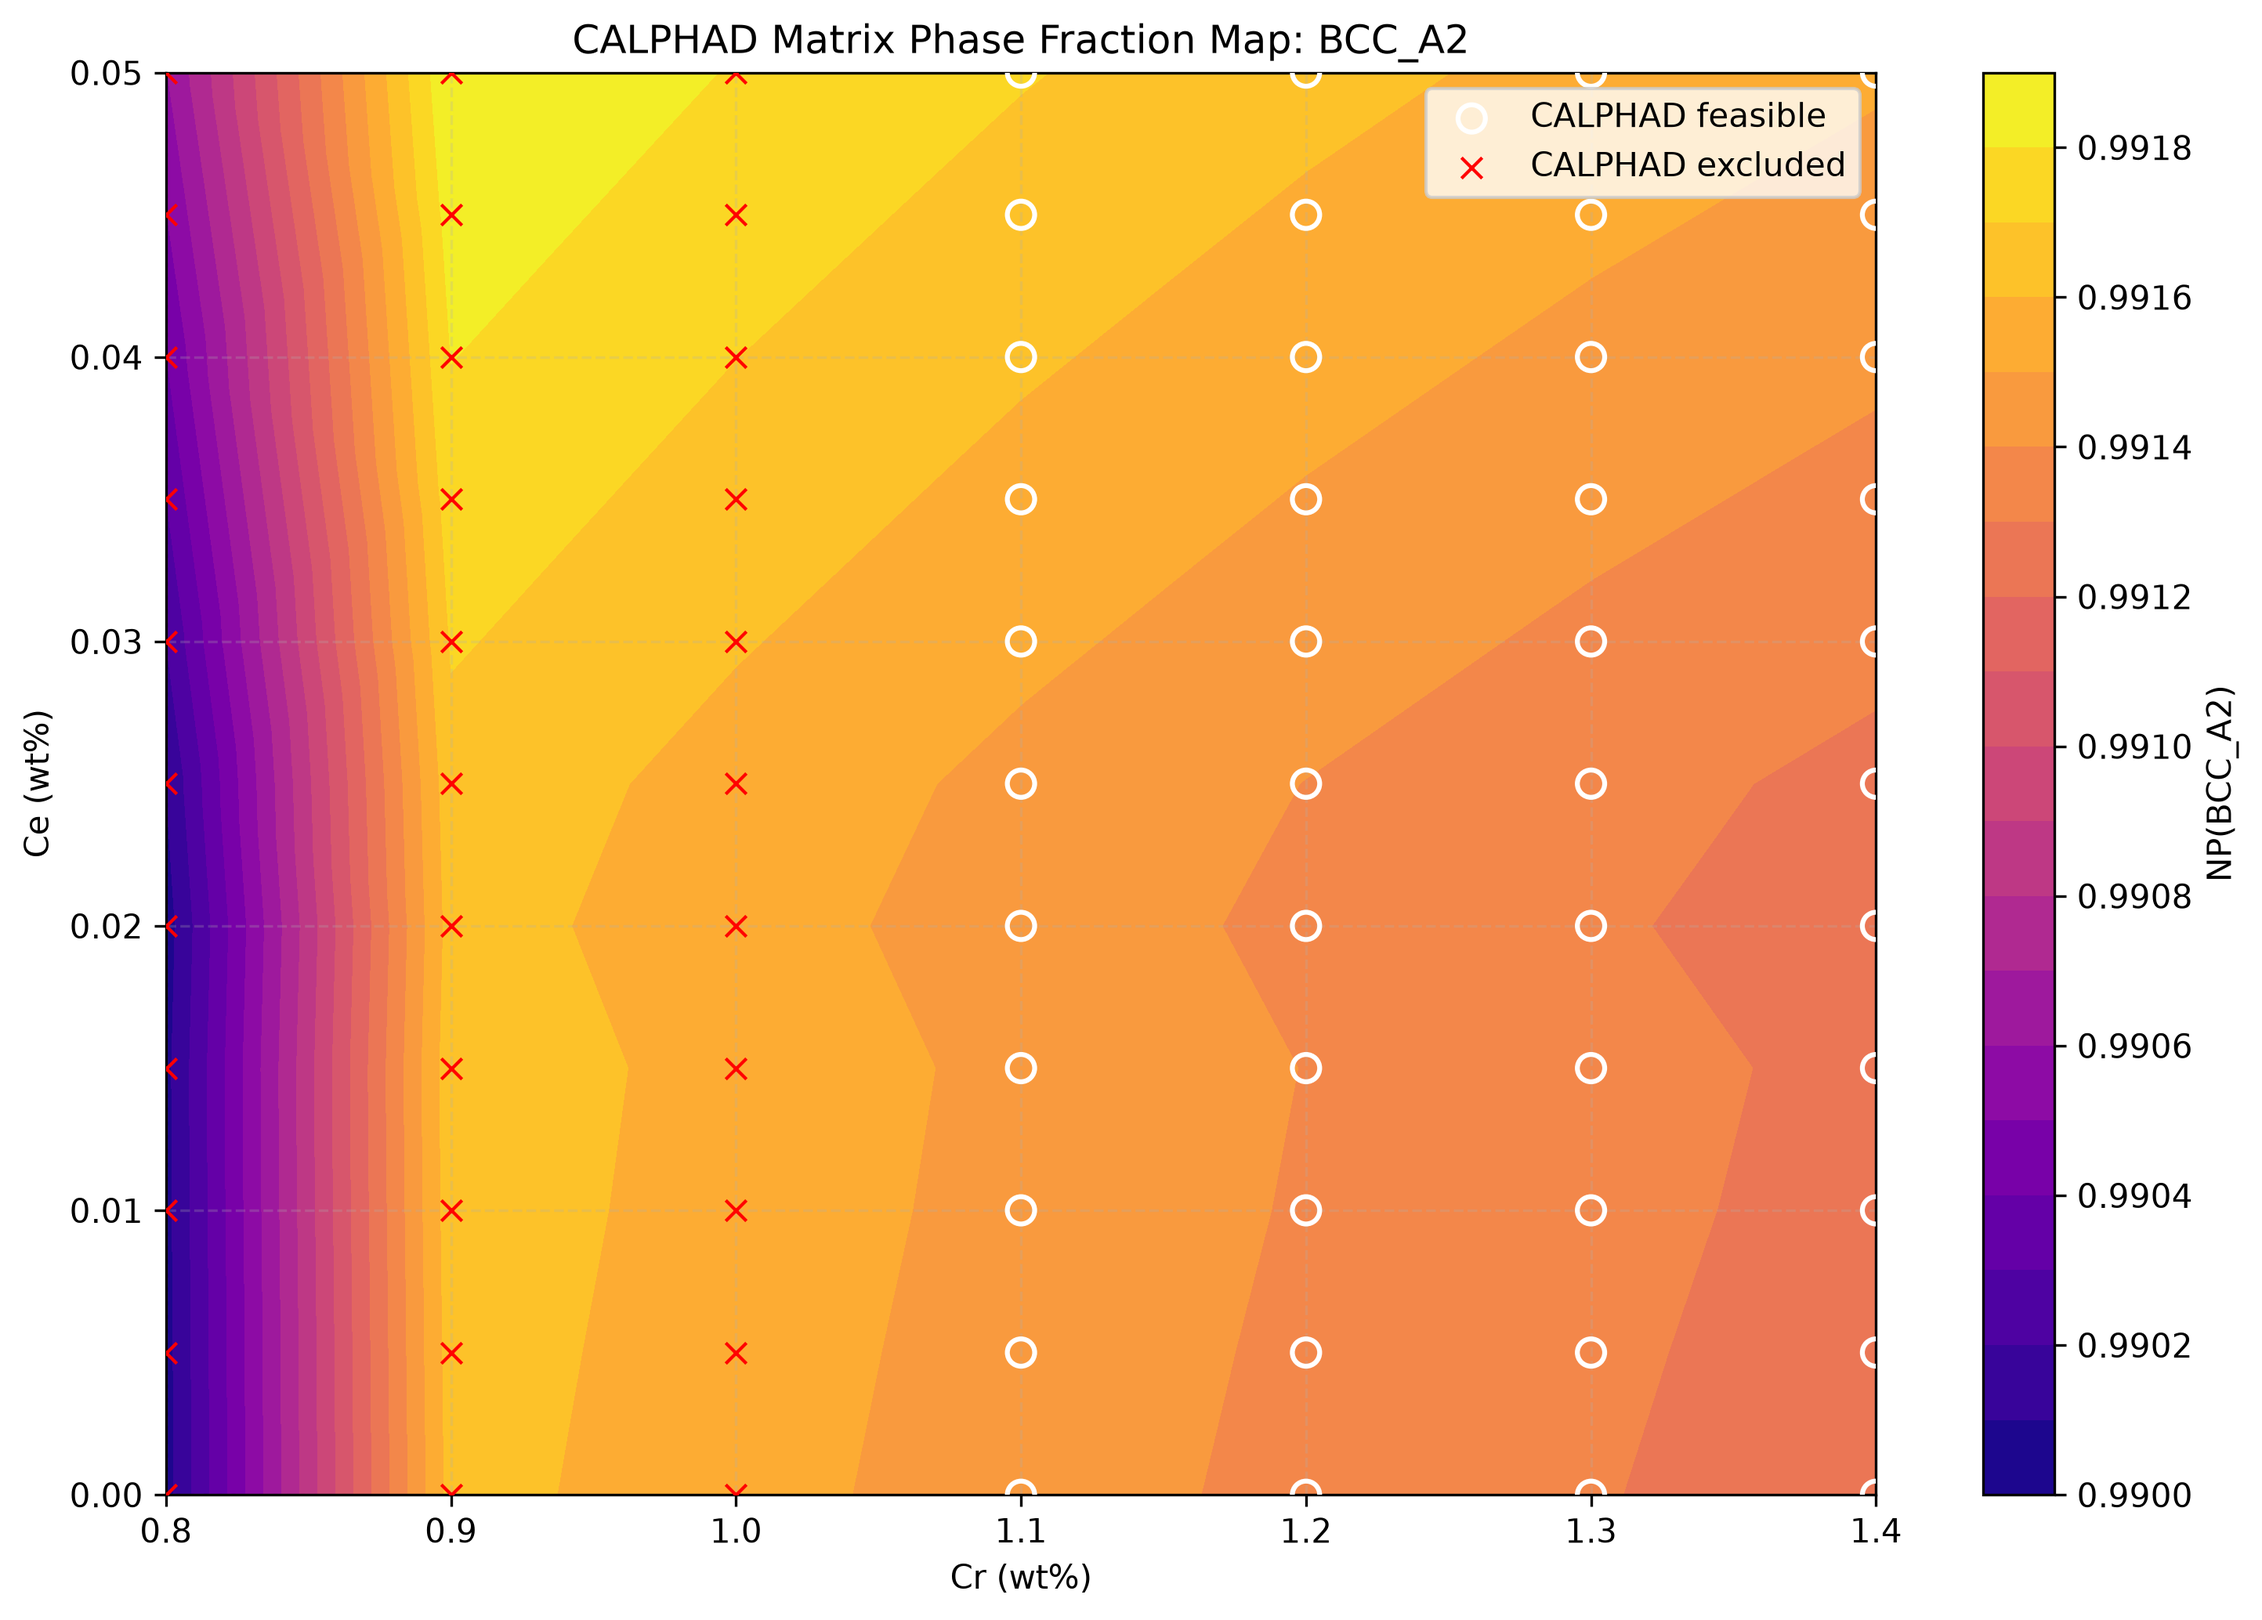
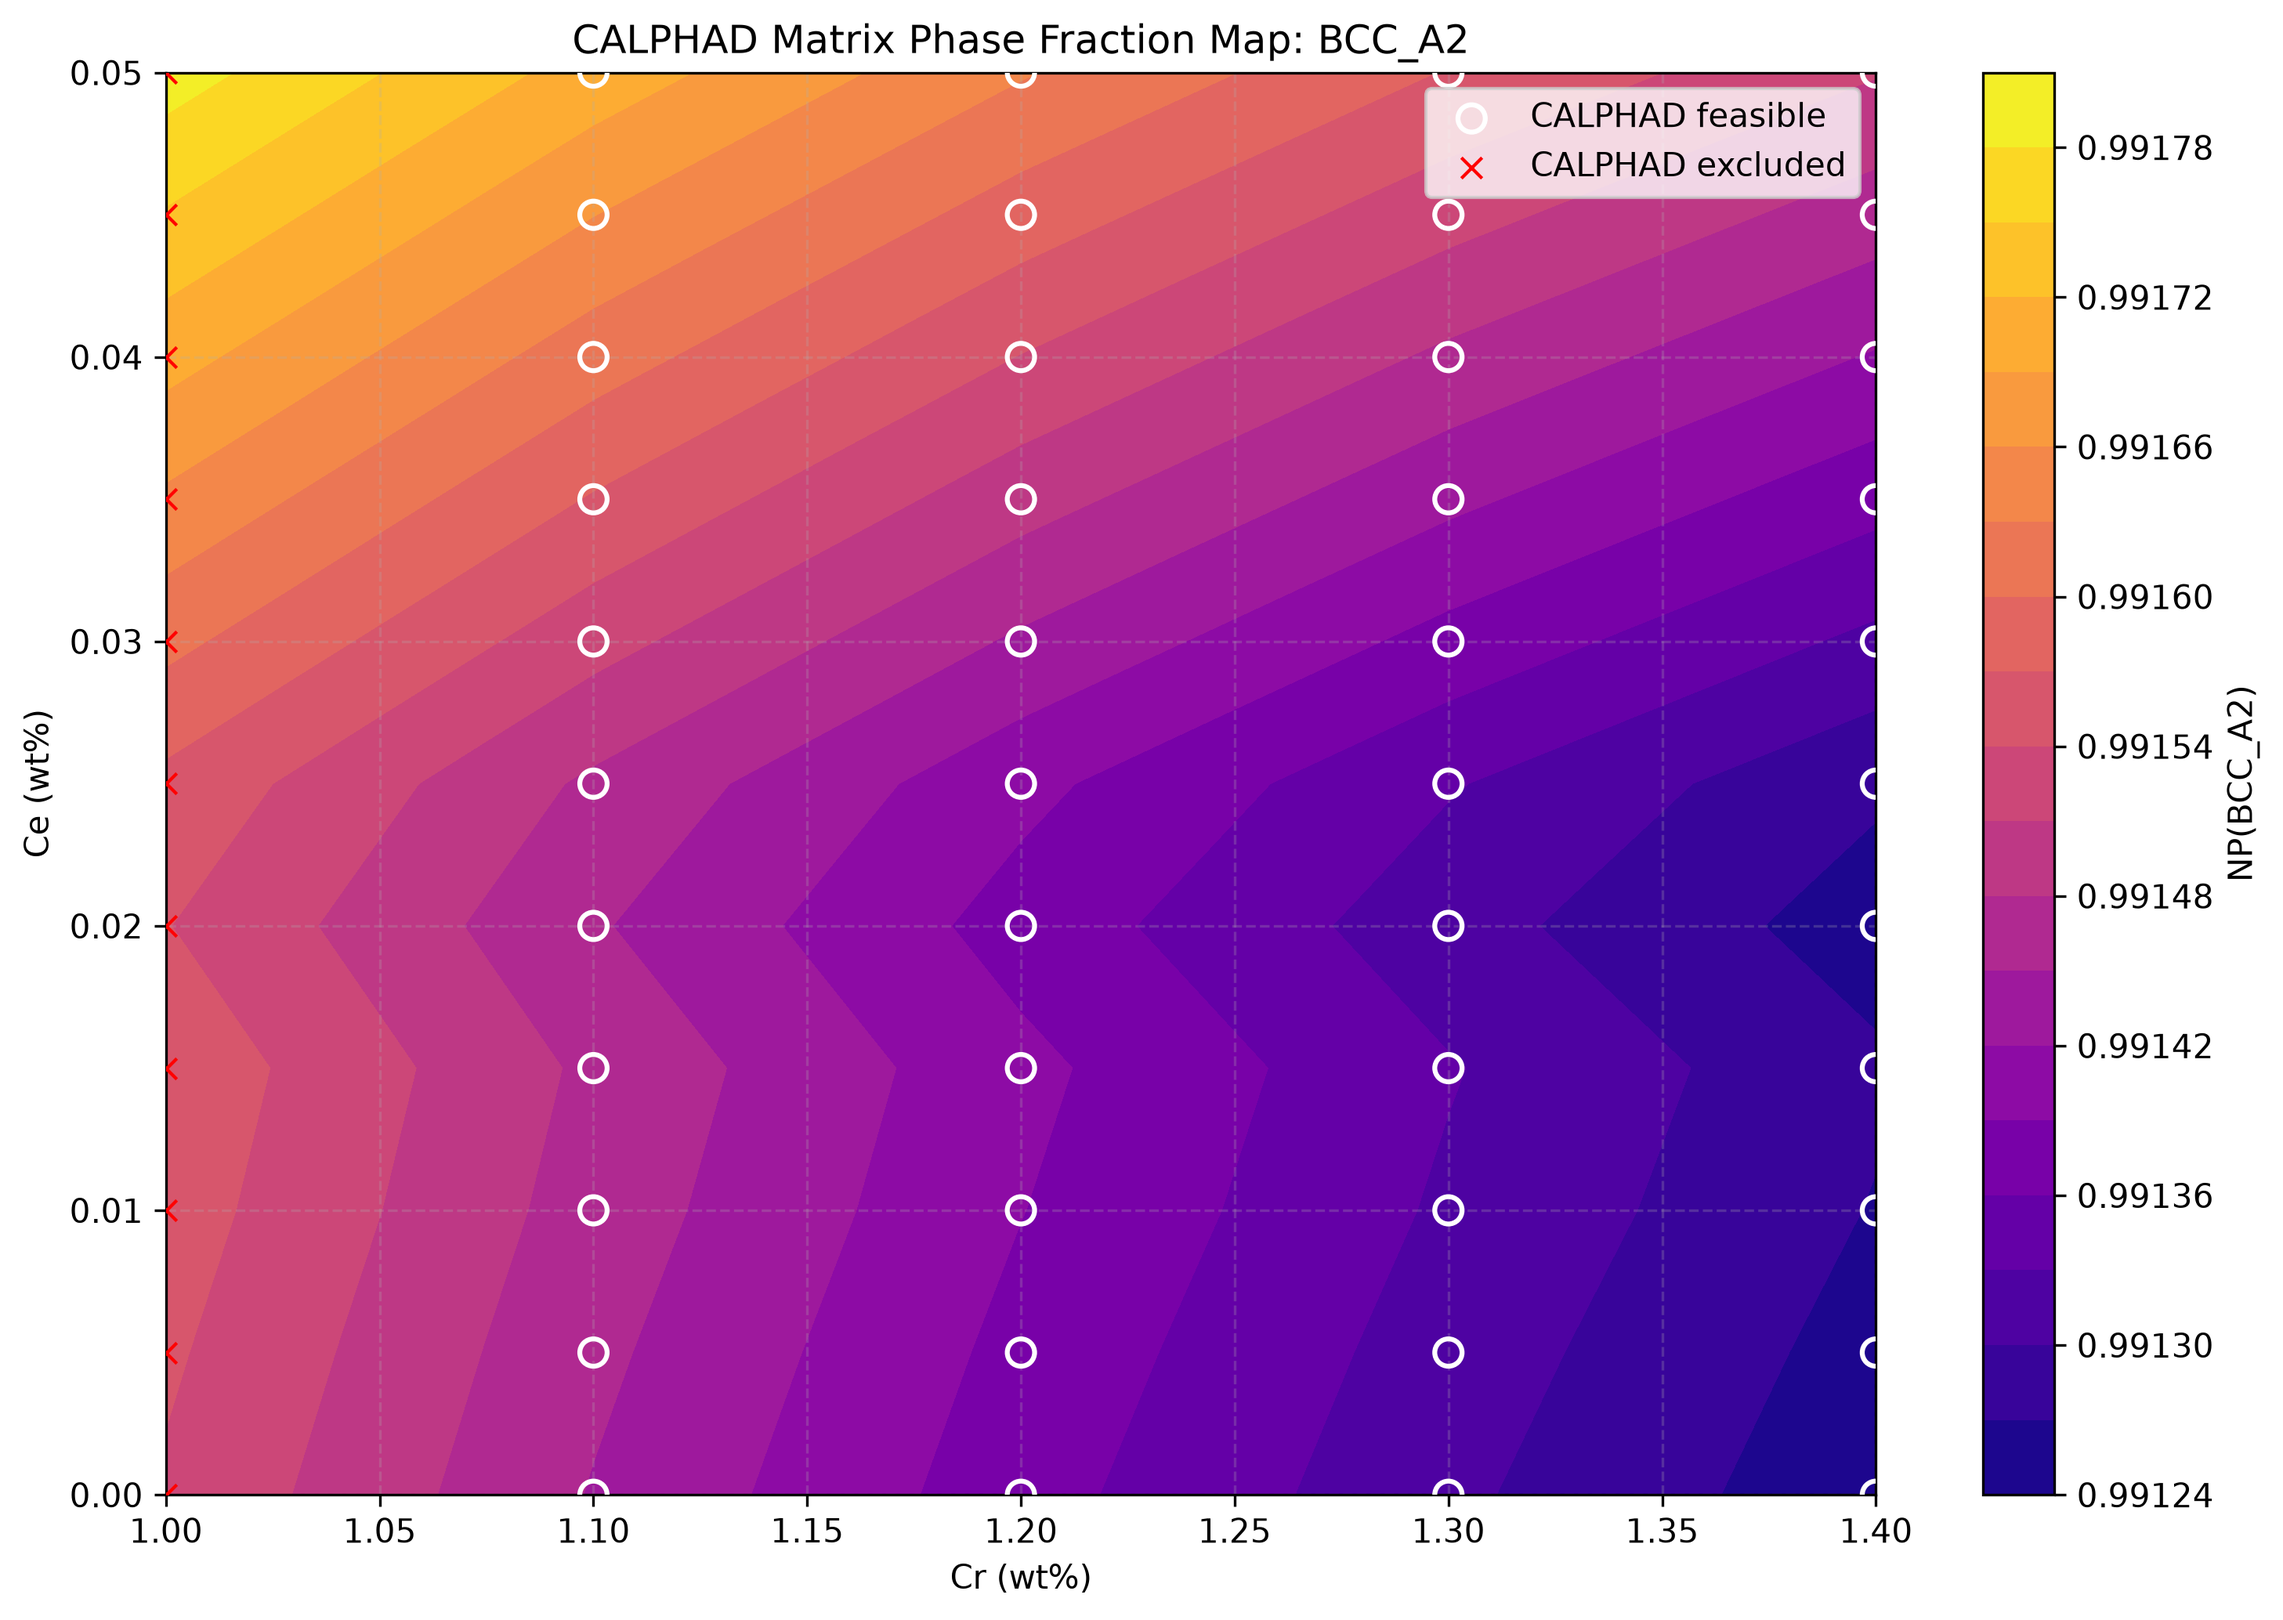
8

diff --git a/01b_plot_calphad_map.py b/01b_plot_calphad_map.py
@@ -1,24 +1,17 @@
-# 01b_plot_calphad_map.py
+# 01b_plot_calphad_map_3d.py
 #
-# CALPHAD equilibrium 결과를 Ce-Cr 조성 평면에 표시한다.
+# CALPHAD equilibrium 결과를 3D 곡면 및 산점도로 Ce-Cr-Z 공간에 표시한다.
 #
-# 그림 1:
-# - 색상: matrix Cr wt%
-# - 흰 원: CALPHAD feasible 조성
-# - 빨간 X: CALPHAD excluded 조성
-#
-# 그림 2:
-# - 색상: matrix phase fraction
-# - 흰 원: CALPHAD feasible 조성
-# - 빨간 X: CALPHAD excluded 조성
+# 그림 1: Z축 = matrix Cr wt% (3D Surface + Feasible/Excluded Scatter)
+# 그림 2: Z축 = matrix phase fraction (3D Surface + Feasible/Excluded Scatter)
 
 import numpy as np
 import pandas as pd
 import matplotlib.pyplot as plt
 import matplotlib.tri as tri
+from mpl_toolkits.mplot3d import Axes3D  # noqa: F401 (3D 투영 활성화)
 
 from config import DATA_DIR, OUTPUT_DIR, MATRIX_PHASE
-
 
 CSV_FILE = DATA_DIR / "calphad_equilibrium.csv"
 
@@ -32,28 +25,16 @@ def prepare_plot_data(df, z_column):
         "calphad_feasible",
     ]
 
-    missing = [
-        col for col in required_columns
-        if col not in df.columns
-    ]
-
+    missing = [col for col in required_columns if col not in df.columns]
     if missing:
-        raise ValueError(
-            f"CSV에 필요한 열이 없습니다: {missing}"
-        )
+        raise ValueError(f"CSV에 필요한 열이 없습니다: {missing}")
 
     df = df[
-        df["calculation_status"]
-        .astype(str)
-        .str.strip()
-        .eq("ok")
+        df["calculation_status"].astype(str).str.strip().eq("ok")
     ].copy()
 
     for col in ["Ce_wt", "Cr_wt", z_column]:
-        df[col] = pd.to_numeric(
-            df[col],
-            errors="coerce"
-        )
+        df[col] = pd.to_numeric(df[col], errors="coerce")
 
     finite_mask = (
         np.isfinite(df["Ce_wt"])
@@ -64,59 +45,66 @@ def prepare_plot_data(df, z_column):
     return df.loc[finite_mask].copy()
 
 
-def draw_map(ax, df_plot, z_column, title, colorbar_label, cmap):
-    triangulation = tri.Triangulation(
-        df_plot["Cr_wt"].to_numpy(),
-        df_plot["Ce_wt"].to_numpy(),
-    )
+def draw_3d_map(ax, df_plot, z_column, title, z_label, cmap):
+    x = df_plot["Cr_wt"].to_numpy()
+    y = df_plot["Ce_wt"].to_numpy()
+    z = df_plot[z_column].to_numpy()
 
-    contour = ax.tricontourf(
+    triangulation = tri.Triangulation(x, y)
+
+    # 1. 3D 삼각망 곡면(Surface) 생성
+    surf = ax.plot_trisurf(
         triangulation,
-        df_plot[z_column].to_numpy(),
-        levels=20,
+        z,
         cmap=cmap,
+        edgecolor="none",
+        alpha=0.85,
+        antialiased=True,
     )
 
-    feasible = df_plot[
-        df_plot["calphad_feasible"]
-        .astype(bool)
-    ]
+    # 2. Feasible / Excluded 포인트 분류
+    feasible = df_plot[df_plot["calphad_feasible"].astype(bool)]
+    excluded = df_plot[~df_plot["calphad_feasible"].astype(bool)]
 
-    excluded = df_plot[
-        ~df_plot["calphad_feasible"]
-        .astype(bool)
-    ]
+    # 3. 데이터 포인트 3D Scatter 표시 (곡면 상단에 명확히 보이도록 zorder 설정)
+    if not feasible.empty:
+        ax.scatter(
+            feasible["Cr_wt"],
+            feasible["Ce_wt"],
+            feasible[z_column],
+            marker="o",
+            s=50,
+            facecolors="white",
+            edgecolors="black",
+            linewidths=1.2,
+            label="CALPHAD feasible",
+            depthshade=False,
+        )
 
-    ax.scatter(
-        feasible["Cr_wt"],
-        feasible["Ce_wt"],
-        marker="o",
-        s=70,
-        facecolors="none",
-        edgecolors="white",
-        linewidths=1.5,
-        label="CALPHAD feasible",
-        zorder=3,
-    )
+    if not excluded.empty:
+        ax.scatter(
+            excluded["Cr_wt"],
+            excluded["Ce_wt"],
+            excluded[z_column],
+            marker="x",
+            s=45,
+            color="red",
+            linewidths=1.5,
+            label="CALPHAD excluded",
+            depthshade=False,
+        )
 
-    ax.scatter(
-        excluded["Cr_wt"],
-        excluded["Ce_wt"],
-        marker="x",
-        s=40,
-        color="red",
-        linewidths=1.0,
-        label="CALPHAD excluded",
-        zorder=3,
-    )
+    # 축 라벨 및 타이틀 설정
+    ax.set_xlabel("Cr (wt%)", labelpad=10)
+    ax.set_ylabel("Ce (wt%)", labelpad=10)
+    ax.set_zlabel(z_label, labelpad=10)
+    ax.set_title(title, pad=20, fontsize=12, fontweight="bold")
+    ax.legend(loc="upper left")
 
-    ax.set_xlabel("Cr (wt%)")
-    ax.set_ylabel("Ce (wt%)")
-    ax.set_title(title)
-    ax.grid(alpha=0.25, linestyle="--")
-    ax.legend(loc="best")
+    # 뷰 앵글 기본 세팅 (상하 25도, 좌우 회전 -60도)
+    ax.view_init(elev=25, azim=-60)
 
-    return contour
+    return surf
 
 
 def main():
@@ -131,96 +119,56 @@ def main():
     df = pd.read_csv(CSV_FILE)
     df.columns = df.columns.astype(str).str.strip()
 
-    print("=" * 70)
-    print("Loaded CALPHAD CSV")
-    print("=" * 70)
-    print(CSV_FILE.resolve())
+    matrix_cr_data = prepare_plot_data(df, "matrix_Cr_wt")
+    matrix_fraction_data = prepare_plot_data(df, "matrix_phase_fraction")
 
-    print("\nCSV columns:")
-    print(df.columns.tolist())
-
-    matrix_cr_data = prepare_plot_data(
-        df,
-        "matrix_Cr_wt"
-    )
-
-    matrix_fraction_data = prepare_plot_data(
-        df,
-        "matrix_phase_fraction"
-    )
-
-    print("\nData summary:")
-    print(f"matrix Cr plot points       : {len(matrix_cr_data)}")
-    print(f"matrix phase plot points    : {len(matrix_fraction_data)}")
-
-    if len(matrix_cr_data) < 3:
-        raise ValueError(
-            "matrix_Cr_wt가 유한한 데이터가 3개 미만입니다.\n"
-            "01_tc_calphad_screen.py를 새 코드로 교체한 뒤 다시 실행하세요."
-        )
-
-    if len(matrix_fraction_data) < 3:
-        raise ValueError(
-            "matrix_phase_fraction이 유한한 데이터가 3개 미만입니다.\n"
-            "01_tc_calphad_screen.py의 Thermo-Calc quantity extraction을 확인하세요."
-        )
+    if len(matrix_cr_data) < 3 or len(matrix_fraction_data) < 3:
+        raise ValueError("표면을 생성하기 위한 데이터 포인트(유한값)가 3개 미만입니다.")
 
     # -------------------------------------------------------------
-    # Figure 1: Matrix Cr map
+    # Figure 1: 3D Matrix Cr Map
     # -------------------------------------------------------------
-    fig1, ax1 = plt.subplots(figsize=(10, 7))
+    fig1 = plt.figure(figsize=(11, 8))
+    ax1 = fig1.add_subplot(111, projection="3d")
 
-    contour1 = draw_map(
+    surf1 = draw_3d_map(
         ax1,
         matrix_cr_data,
         "matrix_Cr_wt",
-        f"CALPHAD Matrix Cr Map: {MATRIX_PHASE}",
+        f"CALPHAD Matrix Cr 3D Surface: {MATRIX_PHASE}",
         "Matrix Cr (wt%)",
         "viridis",
     )
 
-    cbar1 = fig1.colorbar(contour1, ax=ax1)
+    cbar1 = fig1.colorbar(surf1, ax=ax1, shrink=0.6, aspect=15, pad=0.1)
     cbar1.set_label("Matrix Cr (wt%)")
 
     fig1.tight_layout()
-
-    out1 = OUTPUT_DIR / "calphad_map_matrix_Cr.png"
-
-    fig1.savefig(
-        out1,
-        dpi=300,
-        bbox_inches="tight"
-    )
-
+    out1 = OUTPUT_DIR / "calphad_3d_matrix_Cr.png"
+    fig1.savefig(out1, dpi=300, bbox_inches="tight")
     print(f"Saved: {out1.resolve()}")
 
     # -------------------------------------------------------------
-    # Figure 2: Matrix phase fraction map
+    # Figure 2: 3D Matrix Phase Fraction Map
     # -------------------------------------------------------------
-    fig2, ax2 = plt.subplots(figsize=(10, 7))
+    fig2 = plt.figure(figsize=(11, 8))
+    ax2 = fig2.add_subplot(111, projection="3d")
 
-    contour2 = draw_map(
+    surf2 = draw_3d_map(
         ax2,
         matrix_fraction_data,
         "matrix_phase_fraction",
-        f"CALPHAD Matrix Phase Fraction Map: {MATRIX_PHASE}",
+        f"CALPHAD Matrix Phase Fraction 3D Surface: {MATRIX_PHASE}",
         f"NP({MATRIX_PHASE})",
         "plasma",
     )
 
-    cbar2 = fig2.colorbar(contour2, ax=ax2)
+    cbar2 = fig2.colorbar(surf2, ax=ax2, shrink=0.6, aspect=15, pad=0.1)
     cbar2.set_label(f"NP({MATRIX_PHASE})")
 
     fig2.tight_layout()
-
-    out2 = OUTPUT_DIR / "calphad_map_matrix_phase_fraction.png"
-
-    fig2.savefig(
-        out2,
-        dpi=300,
-        bbox_inches="tight"
-    )
-
+    out2 = OUTPUT_DIR / "calphad_3d_matrix_phase_fraction.png"
+    fig2.savefig(out2, dpi=300, bbox_inches="tight")
     print(f"Saved: {out2.resolve()}")
 
     plt.show()

diff --git a/config.py b/config.py
@@ -67,12 +67,12 @@ BASE_WT = {
 # 첫 단계에서는 Ce와 Cr만 바꾸고 나머지 성분 및 열처리는 고정한다.
 # ---------------------------------------------------------------------
 CE_GRID_WT = np.round(
-    np.arange(0.000, 0.0501, 0.005),
+    np.arange(0.000, 0.05, 0.001),
     4,
 )
 
 CR_GRID_WT = np.round(
-    np.arange(1.0, 1.401, 0.10),
+    np.arange(1.0, 1.4, 0.001),
     3,
 )
 
